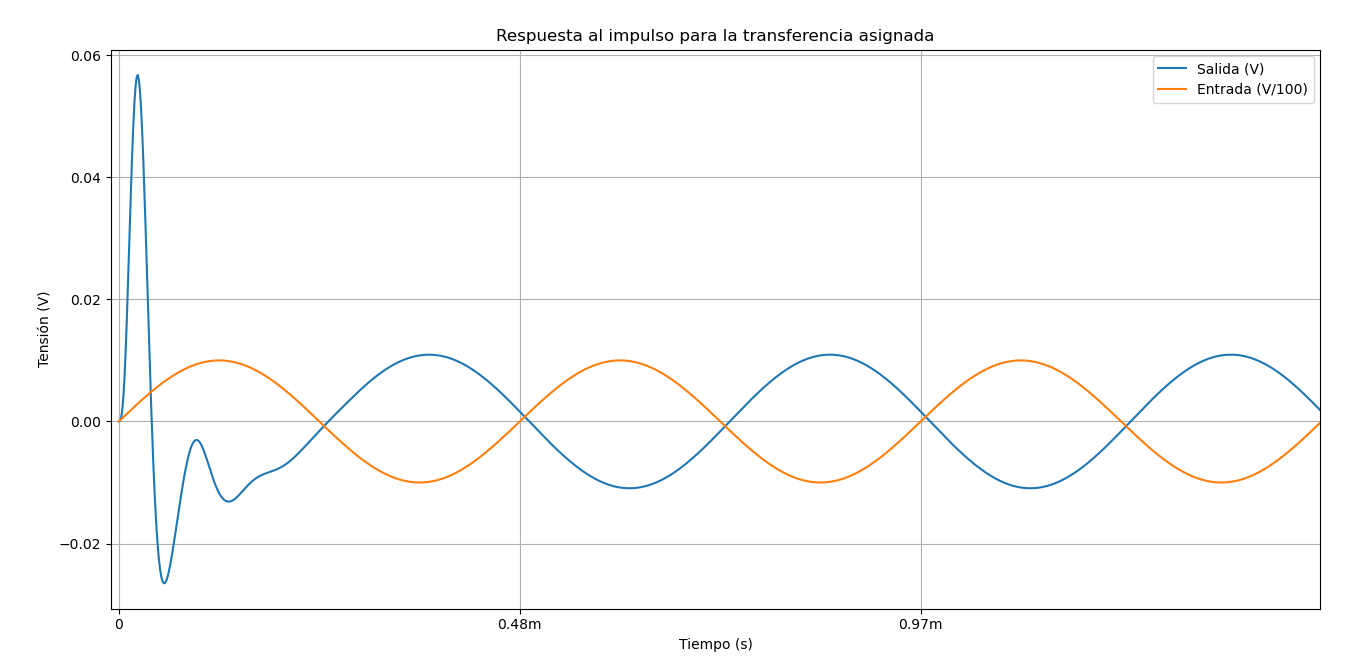
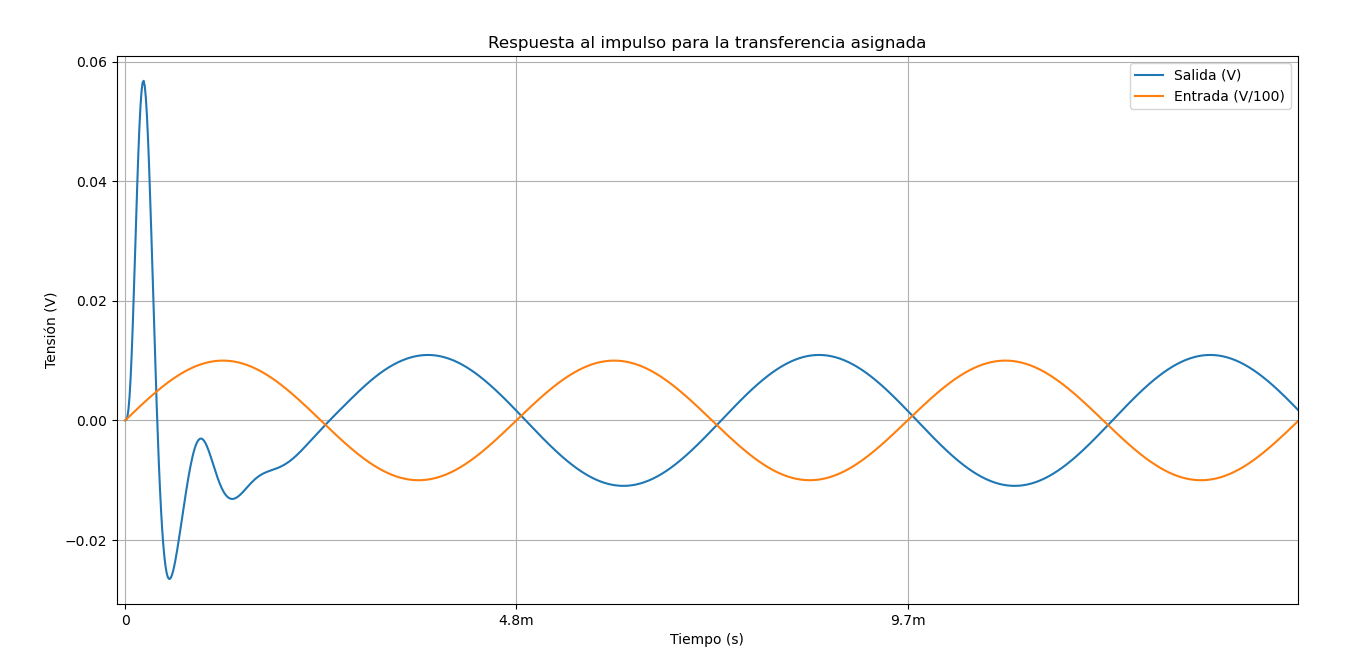
Fix 2d207Hz labels

diff --git a/2d207Hz.py b/2d207Hz.py
@@ -26,7 +26,7 @@ plt.plot(t, y, label='Salida (V)')
 plt.plot(sin_t, [sin / 100 for sin in sin_v], label='Entrada (V/100)')
 plt.xticks(
     [0, period, 2 * period, 3 * period],
-    ['0', '0.48m', '0.97m', '1.45m']
+    ['0', '4.8m', '9.7m', '14.5m']
 )
 plt.xlim(-0.0001, t[-1])
 plt.xlabel('Tiempo (s)')
